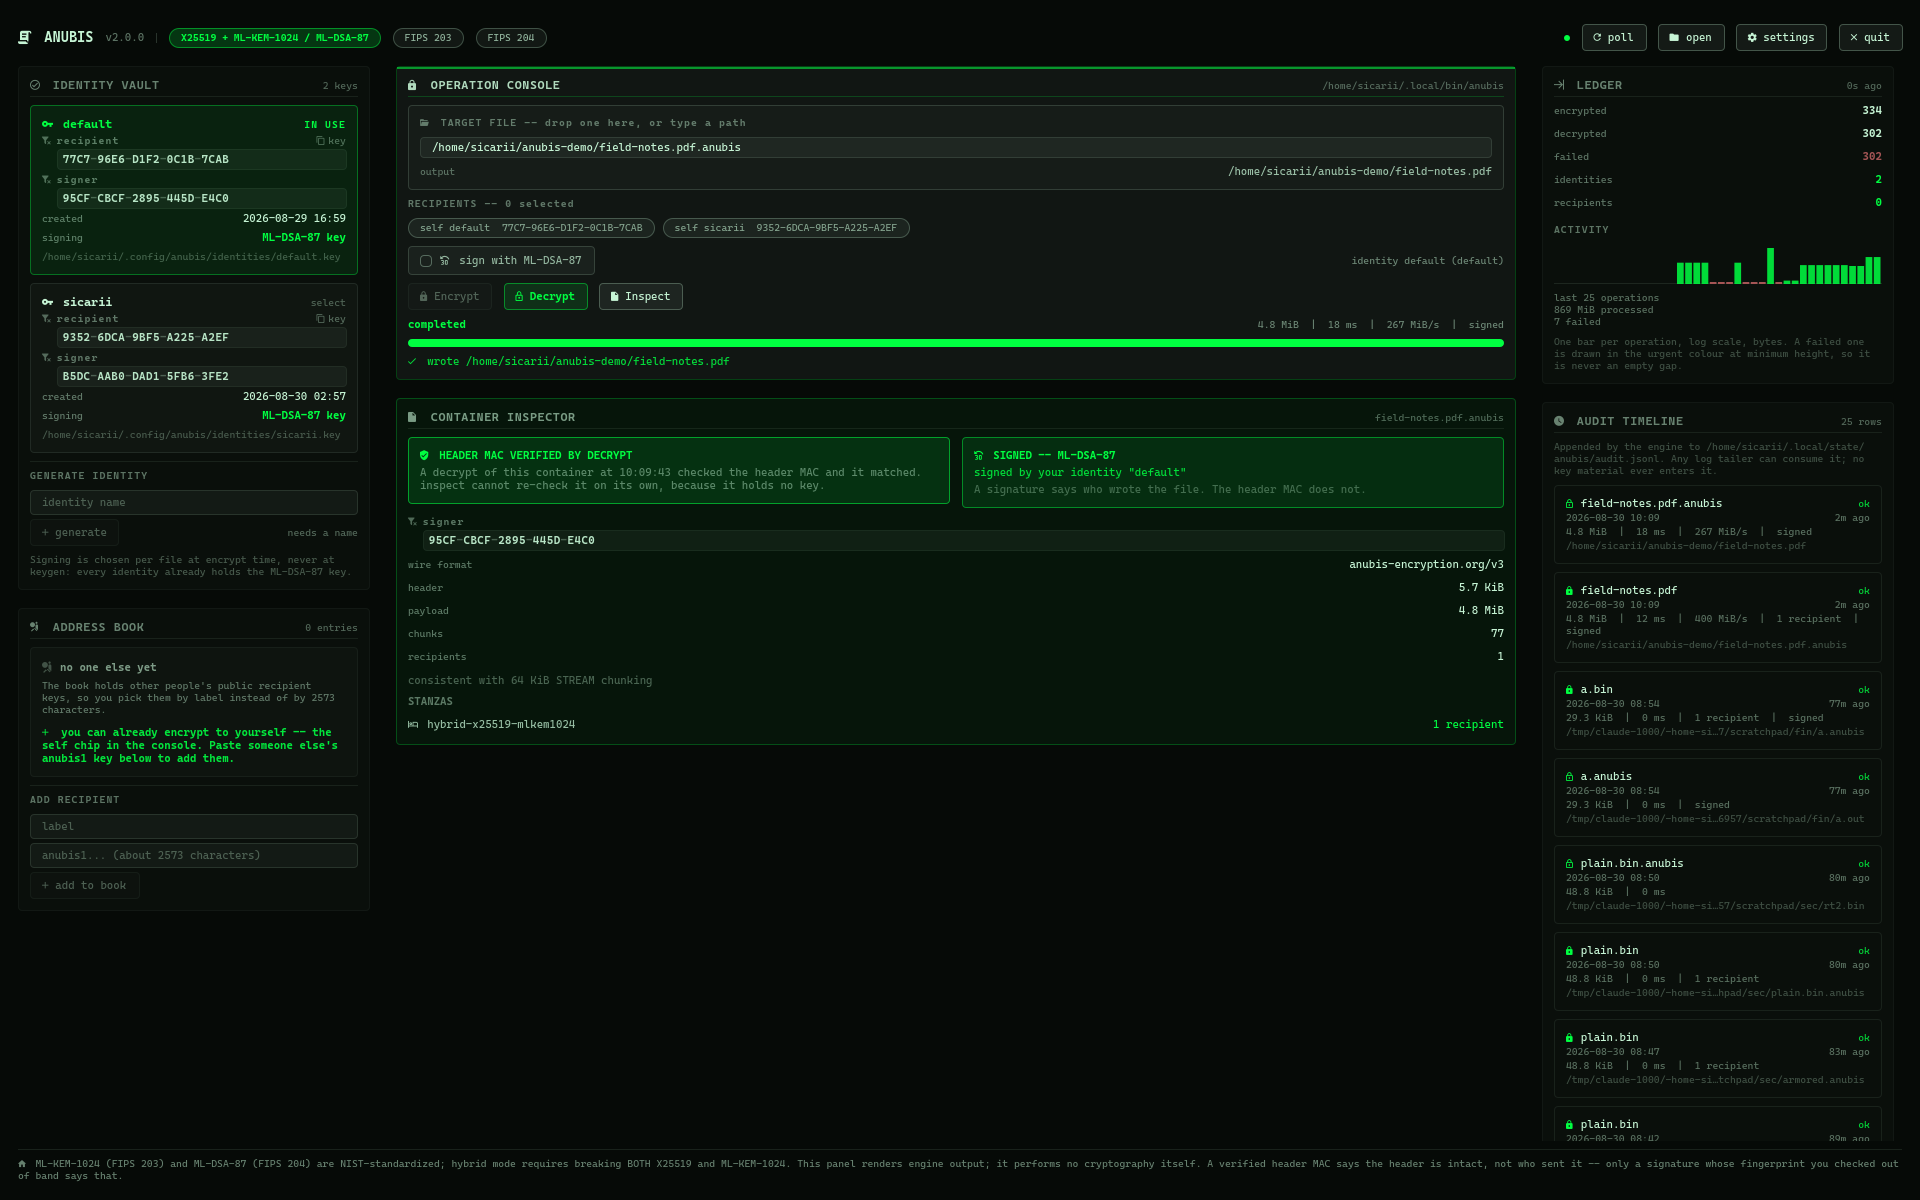
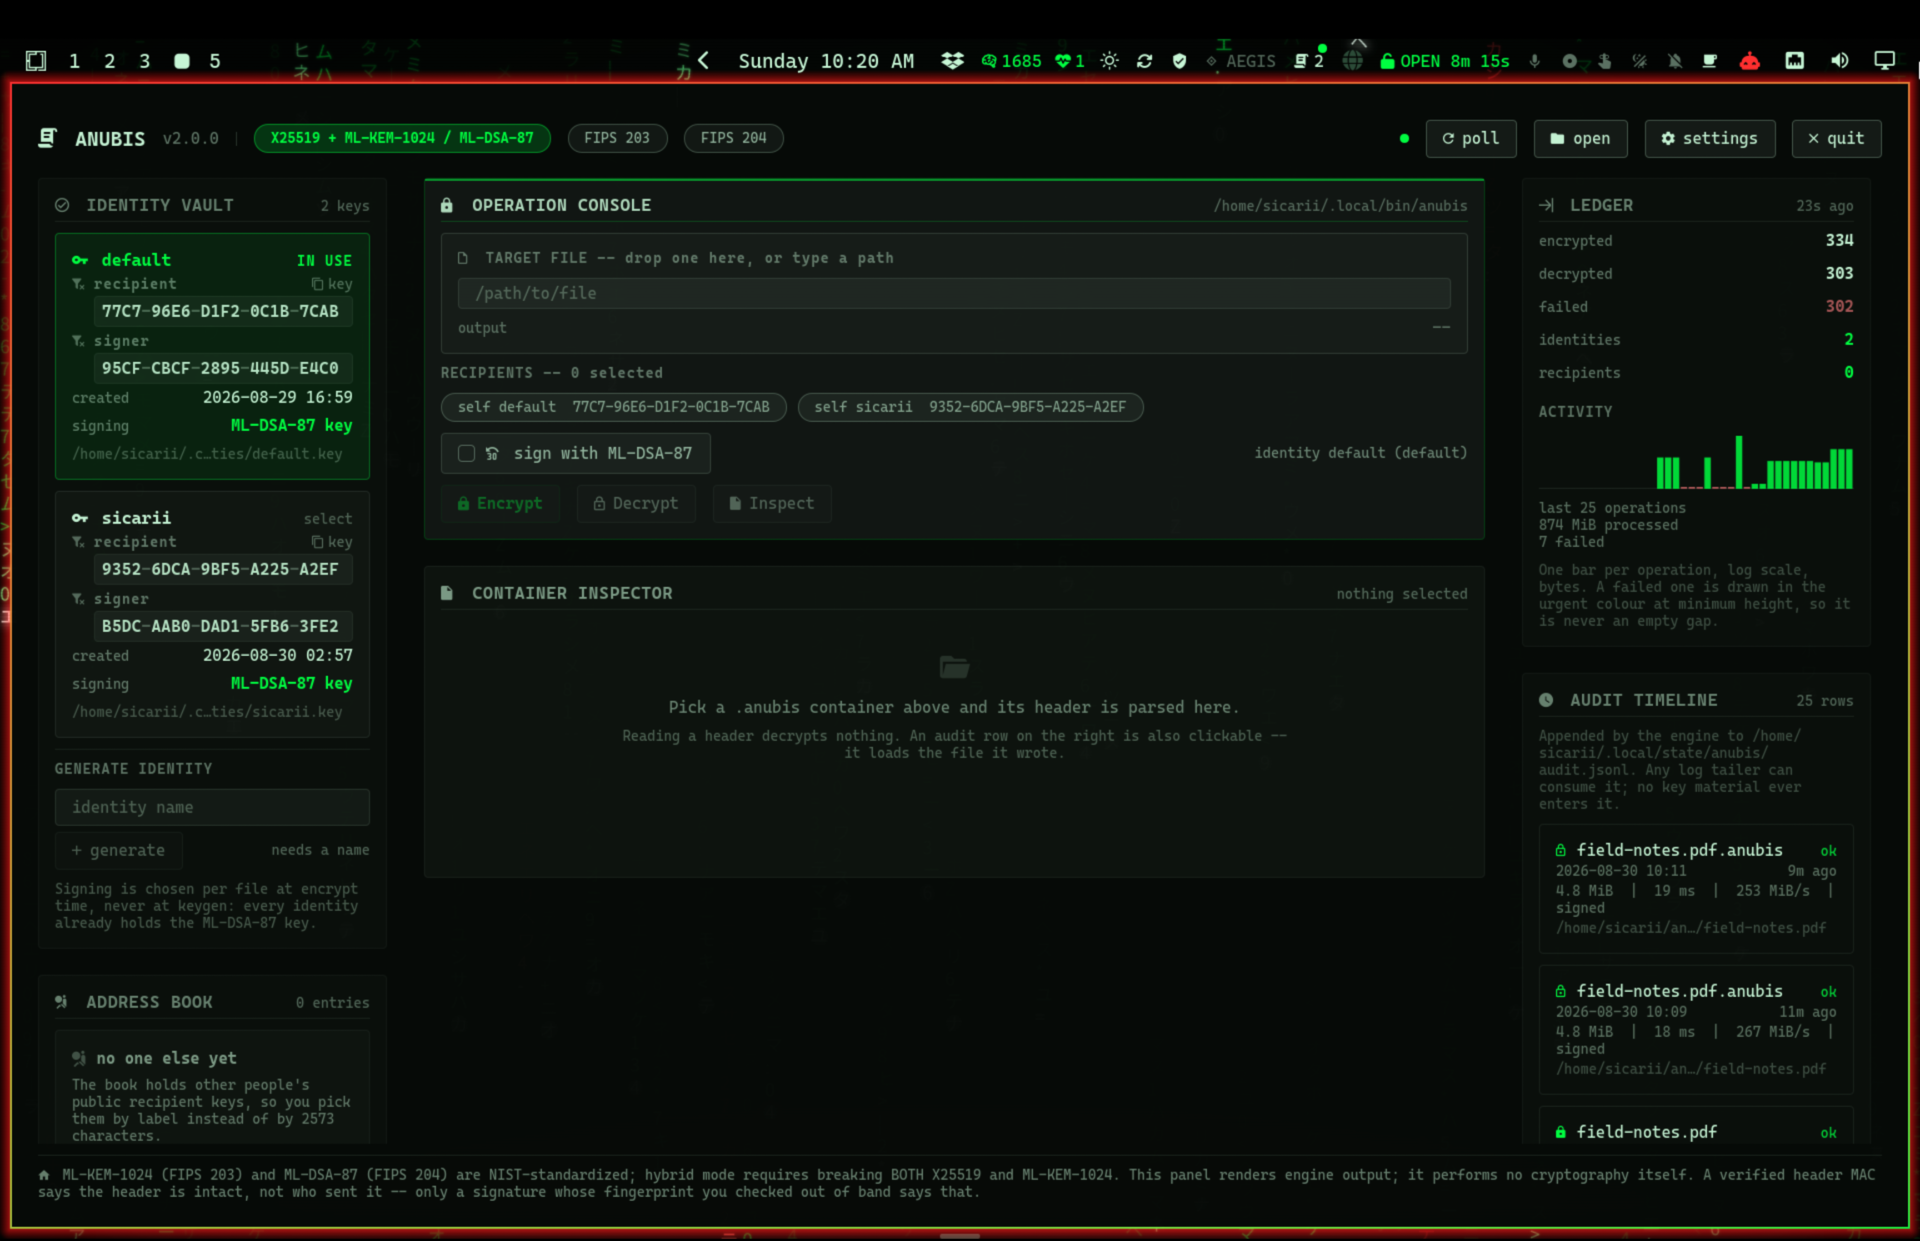
docs: hero screenshot of the vault in its desktop
The cockpit as it actually sits on a machine -- window frame, bar and
all -- rather than a bare fullscreen grab.

Claude-Session: https://claude.ai/code/session_019CH3LAxjfYcQQpeHhspHkr

diff --git a/README.md b/README.md
@@ -18,7 +18,7 @@ One repository, three surfaces:
 | `desktop/` | **ANUBIS Vault**, the standalone Qt 6 desktop application |
 | `plugin/` | `khephri.anubis`, the Omarchy bar readout |
 
-![The ANUBIS Vault cockpit: identity vault, operation console with a signed container inspected, ledger and audit timeline](docs/screenshots/vault.png)
+![The ANUBIS Vault on an Omarchy desktop: identity vault, operation console, ledger and audit timeline](docs/screenshots/vault.png)
 
 ---
 
